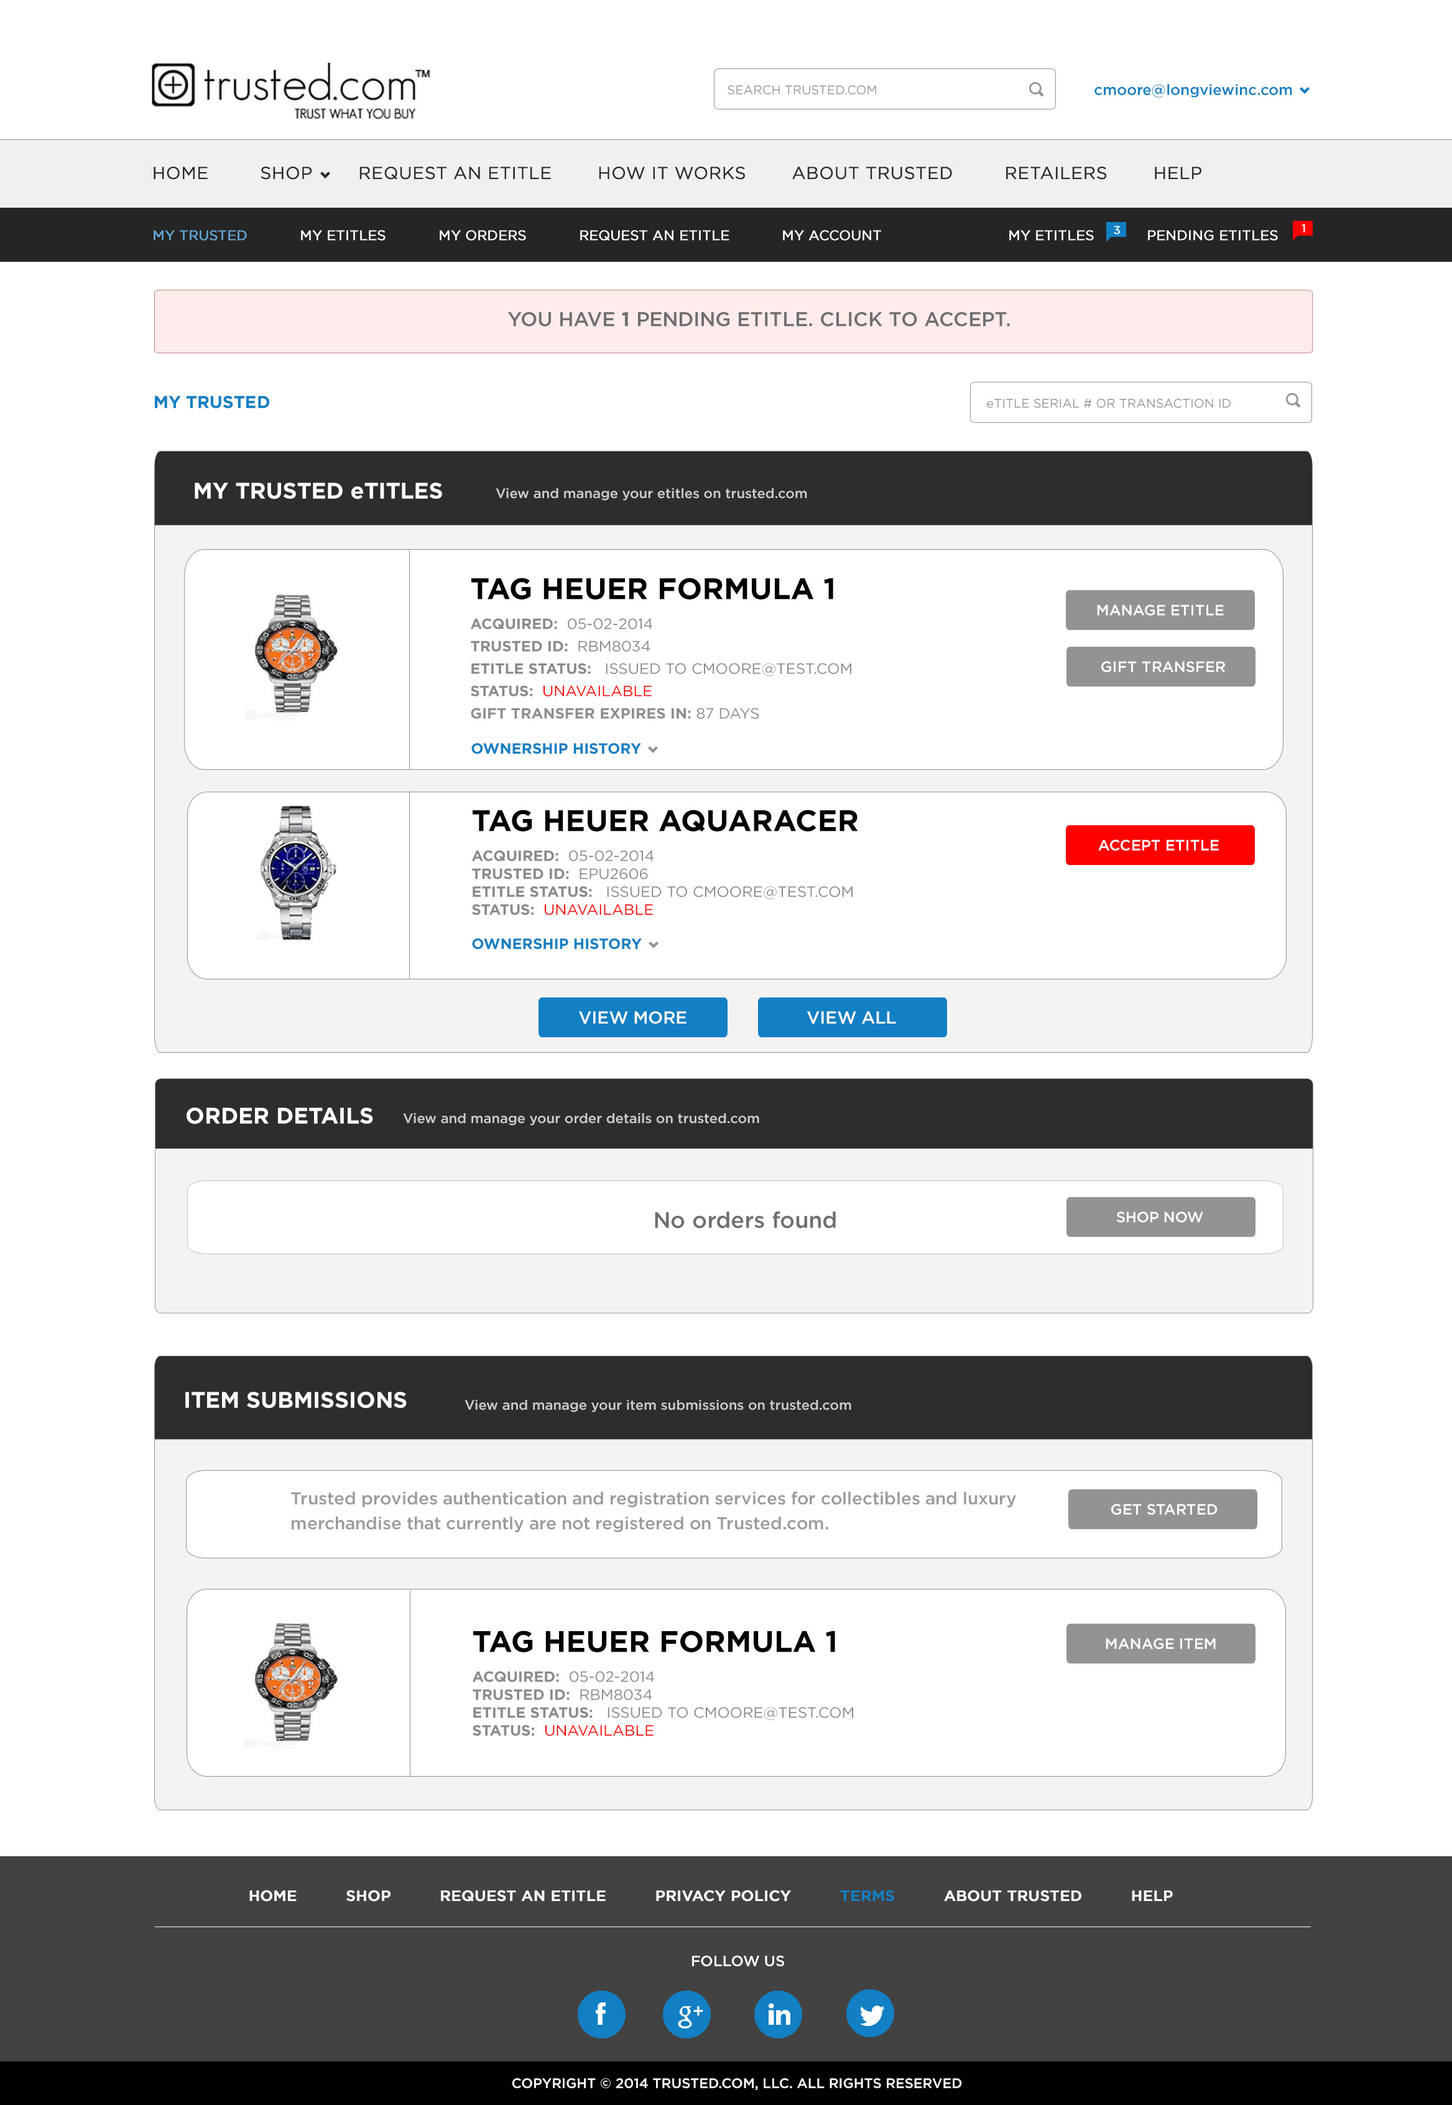
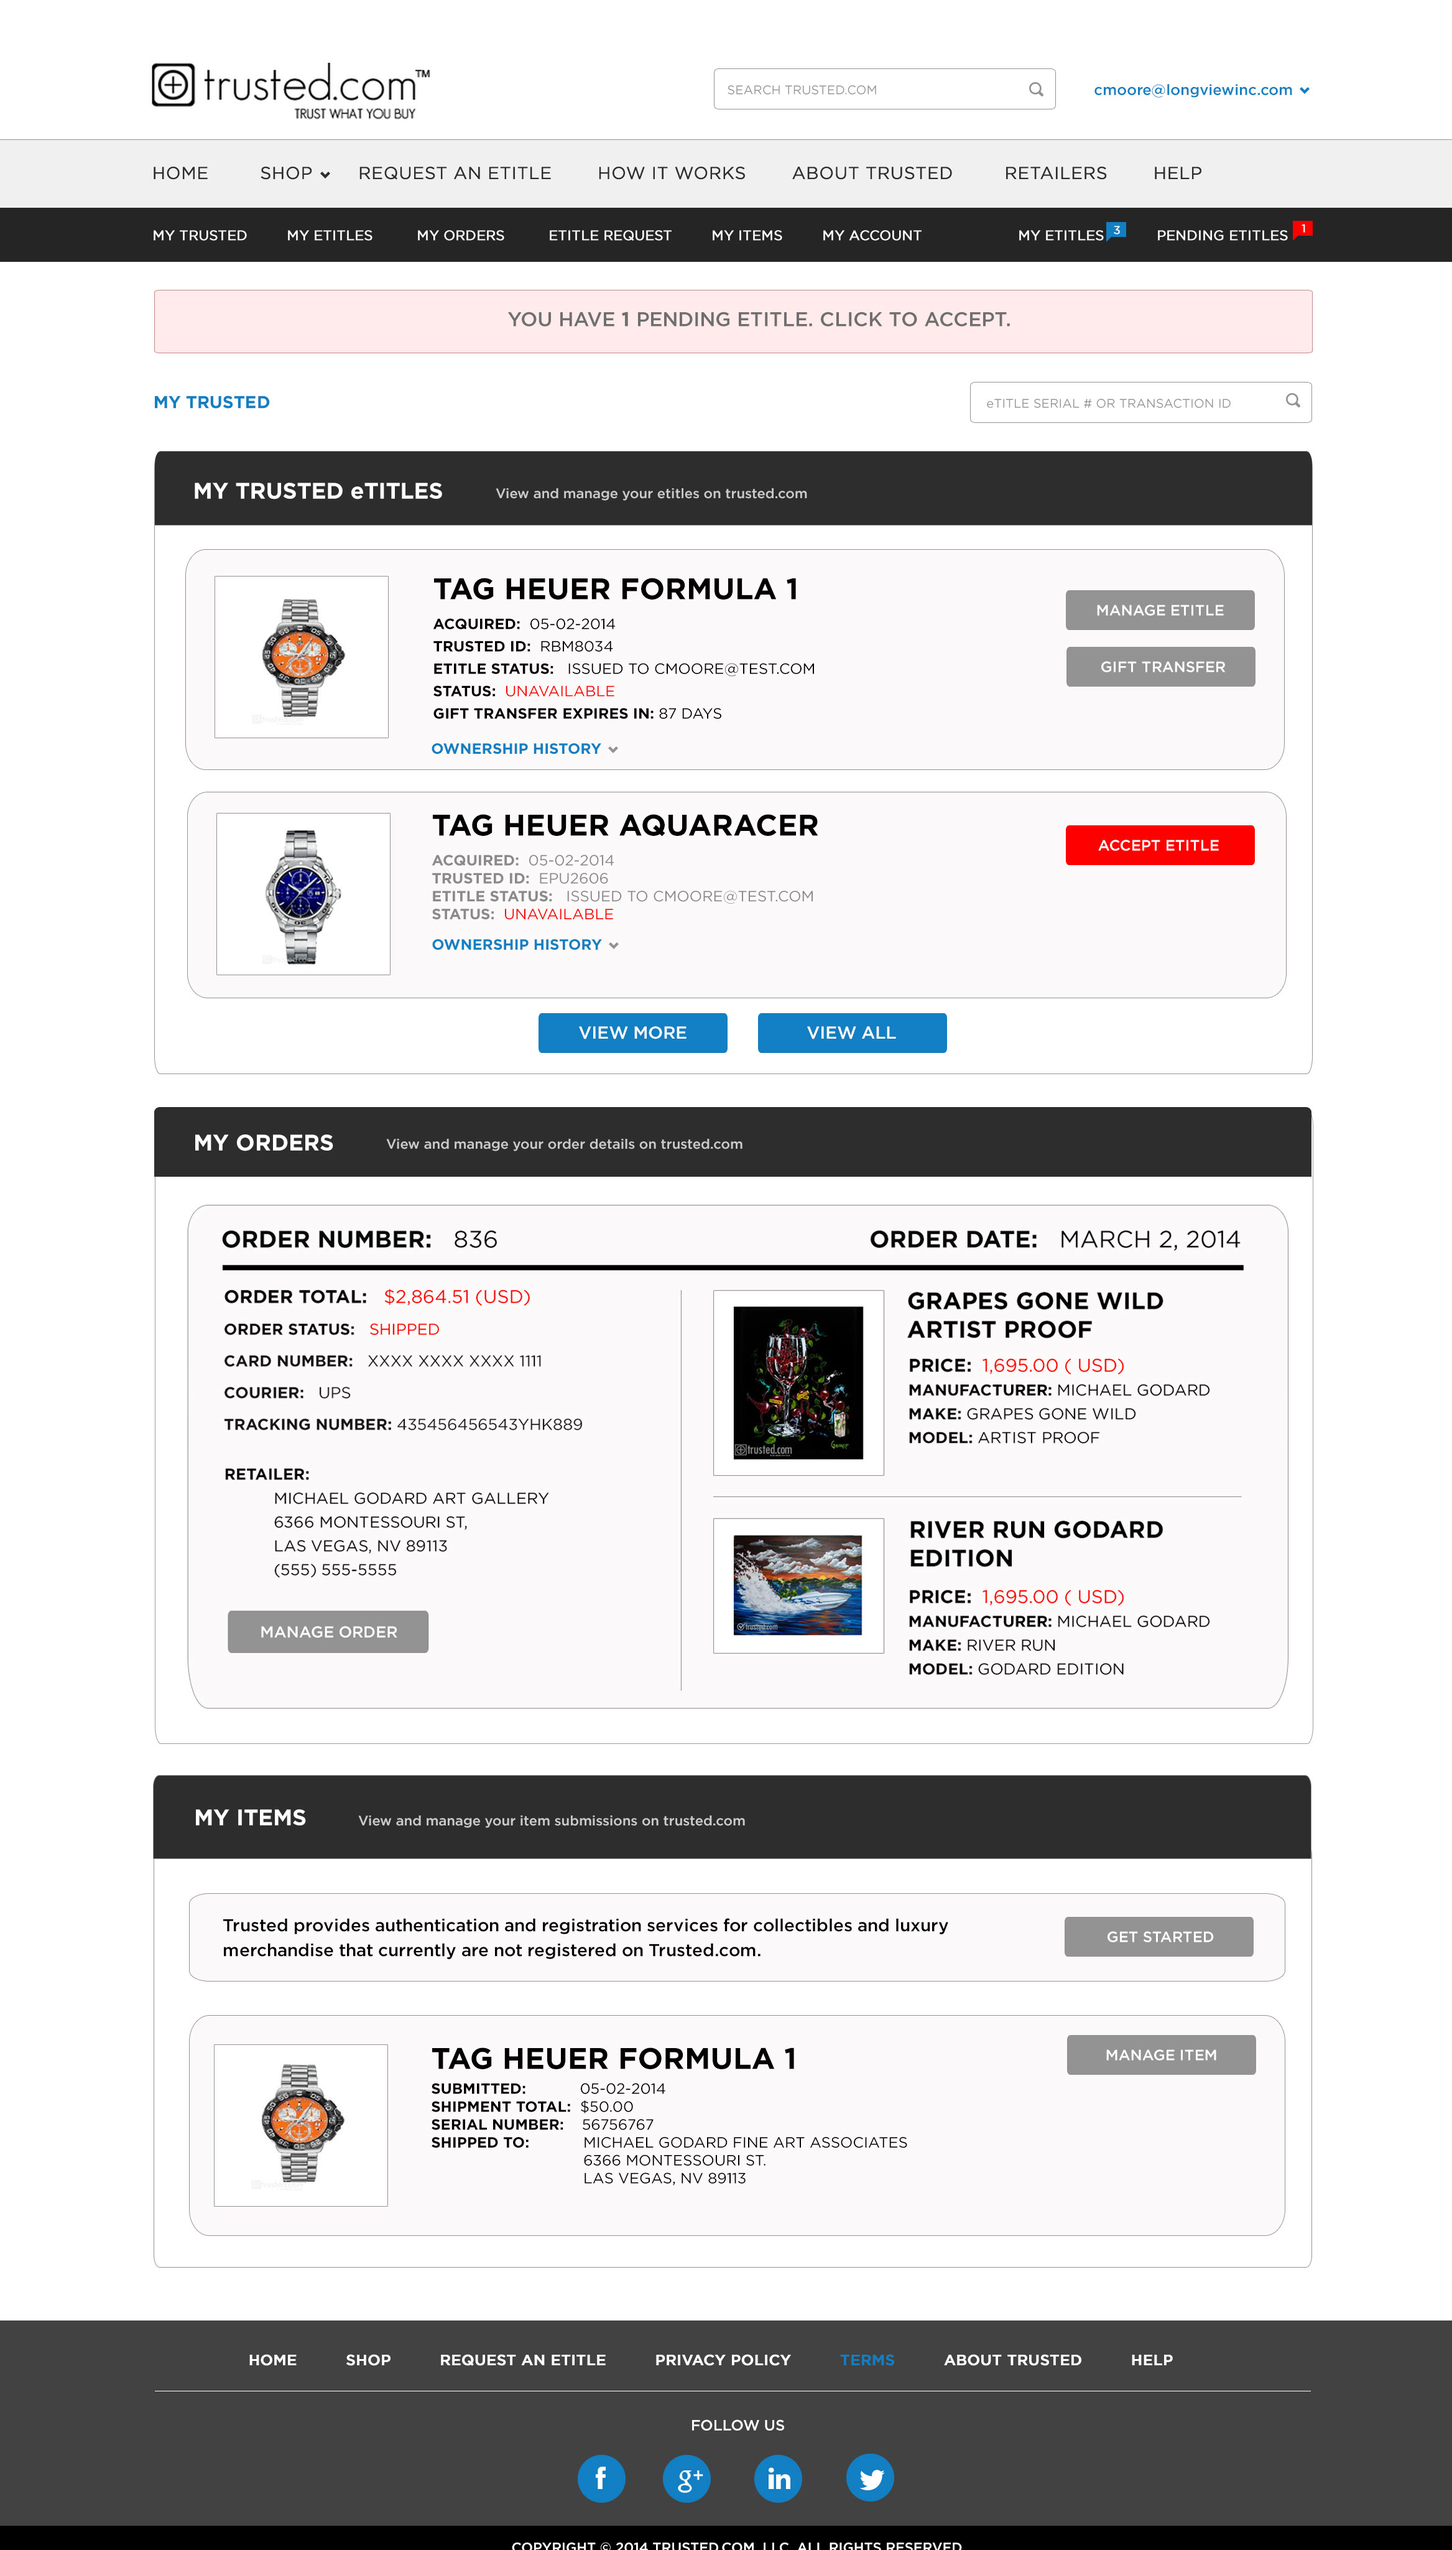
Updates

diff --git a/index.html b/index.html
@@ -15,18 +15,18 @@ img {
 }
 </style>
 <body>
-<img src="images/trusted-user-profile-ux.jpg" alt="" width="2335" height="3385" usemap="#Map"/>
-<map name="Map"><area shape="rect" coords="607,797,770,838" href="view-all.html"><area shape="rect" coords="854,521,1009,554" href="etitle-transfer.html">
-  <area shape="rect" coords="627,175,728,203" href="account-profile.html">
+<img src="images/trusted-user-profile-ux.jpg" alt="" width="2335" height="4100" usemap="#Map"/>
+<map name="Map"><area shape="rect" coords="185,1292,348,1333" href="manage-order.html"><area shape="rect" coords="604,806,767,847" href="view-all.html"><area shape="rect" coords="854,521,1009,554" href="etitle-transfer.html">
+  <area shape="rect" coords="649,176,750,204" href="account-profile.html">
   <area shape="rect" coords="118,175,207,205" href="index.html">
   <area shape="rect" coords="228,175,314,204" href="my-etitles.html">
-  <area shape="rect" coords="345,172,434,200" href="my-orders.html"> 
-  <area shape="rect" coords="457,177,589,205" href="request.html">
+  <area shape="rect" coords="334,175,423,203" href="my-orders.html"> 
+  <area shape="rect" coords="434,177,550,203" href="request.html">
   <area shape="rect" coords="171,233,988,279" href="my-etitles.html">
   <area shape="rect" coords="856,667,1012,701" href="etitle-accept.html">
   <area shape="rect" coords="780,306,1064,345" href="search.html">
   <area shape="rect" coords="858,473,1013,506" href="etitle-detail.html">
-  <area shape="rect" coords="431,797,594,838" href="view-all.html">
+  <area shape="rect" coords="428,809,591,850" href="view-all.html">
 </map>
 </body>
 </html>
